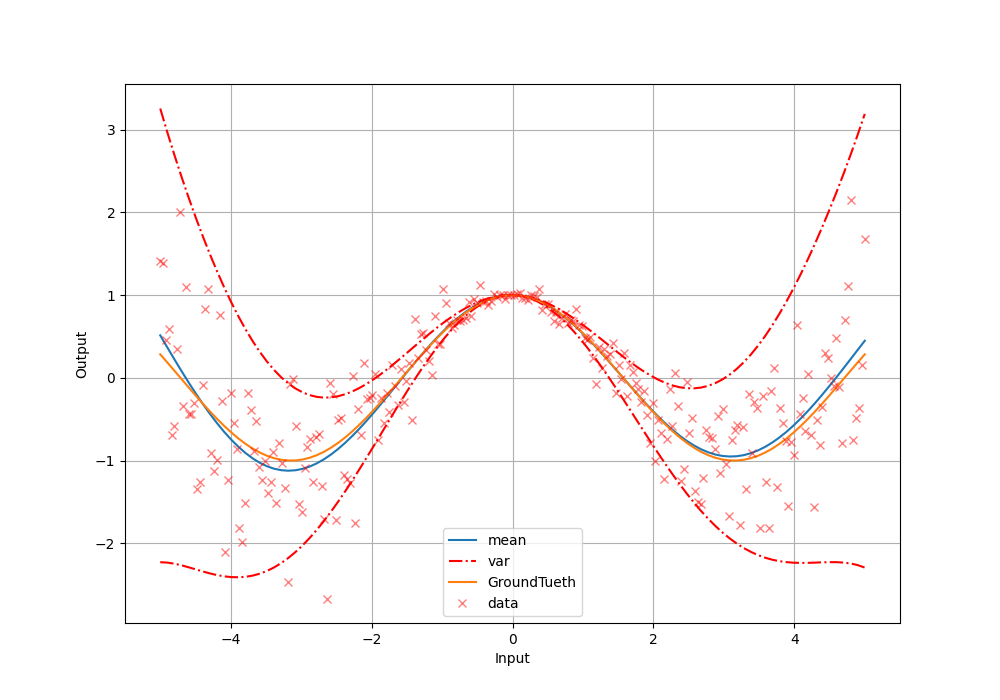
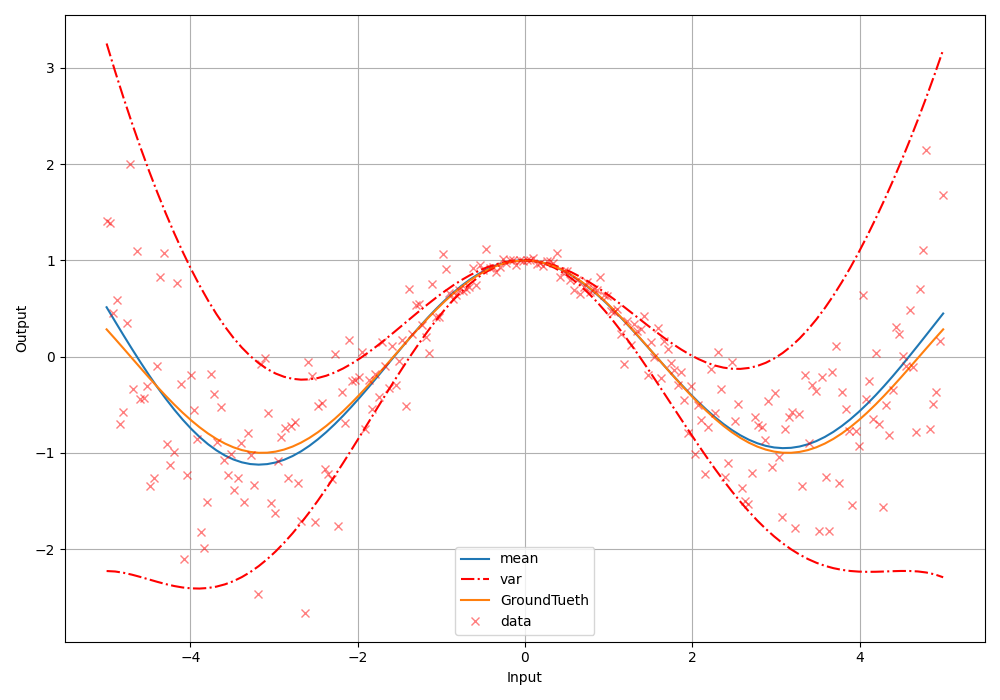
.

diff --git a/jylearn/nonparametric/gpr.py b/jylearn/nonparametric/gpr.py
@@ -140,4 +140,5 @@ if __name__ == "__main__":
     plt.xlabel("Input")
     plt.ylabel("Output")
     plt.legend()
+    plt.tight_layout()
     plt.show()

diff --git a/README.md b/README.md
@@ -4,7 +4,7 @@ The gym **pendulum** environment is chosen to be the benchmark of control projec
   
   
 Update: 31.11.2022, finished the kernel classes enabling the kernel operations (add, multiply and exponent). A Gaussian process regressor has been implemented to validate the performance of compounding kernel on an artificial dataset with state depend noise.  
-<img src="jylearn/nonparametric/state_dependent_noise.png" alt="drawing" width="500"/>
+<img src="jylearn/nonparametric/state_dependent_noise.png" alt="drawing" width="700"/>
 
 Finished functions:
 #### Machine learning  
